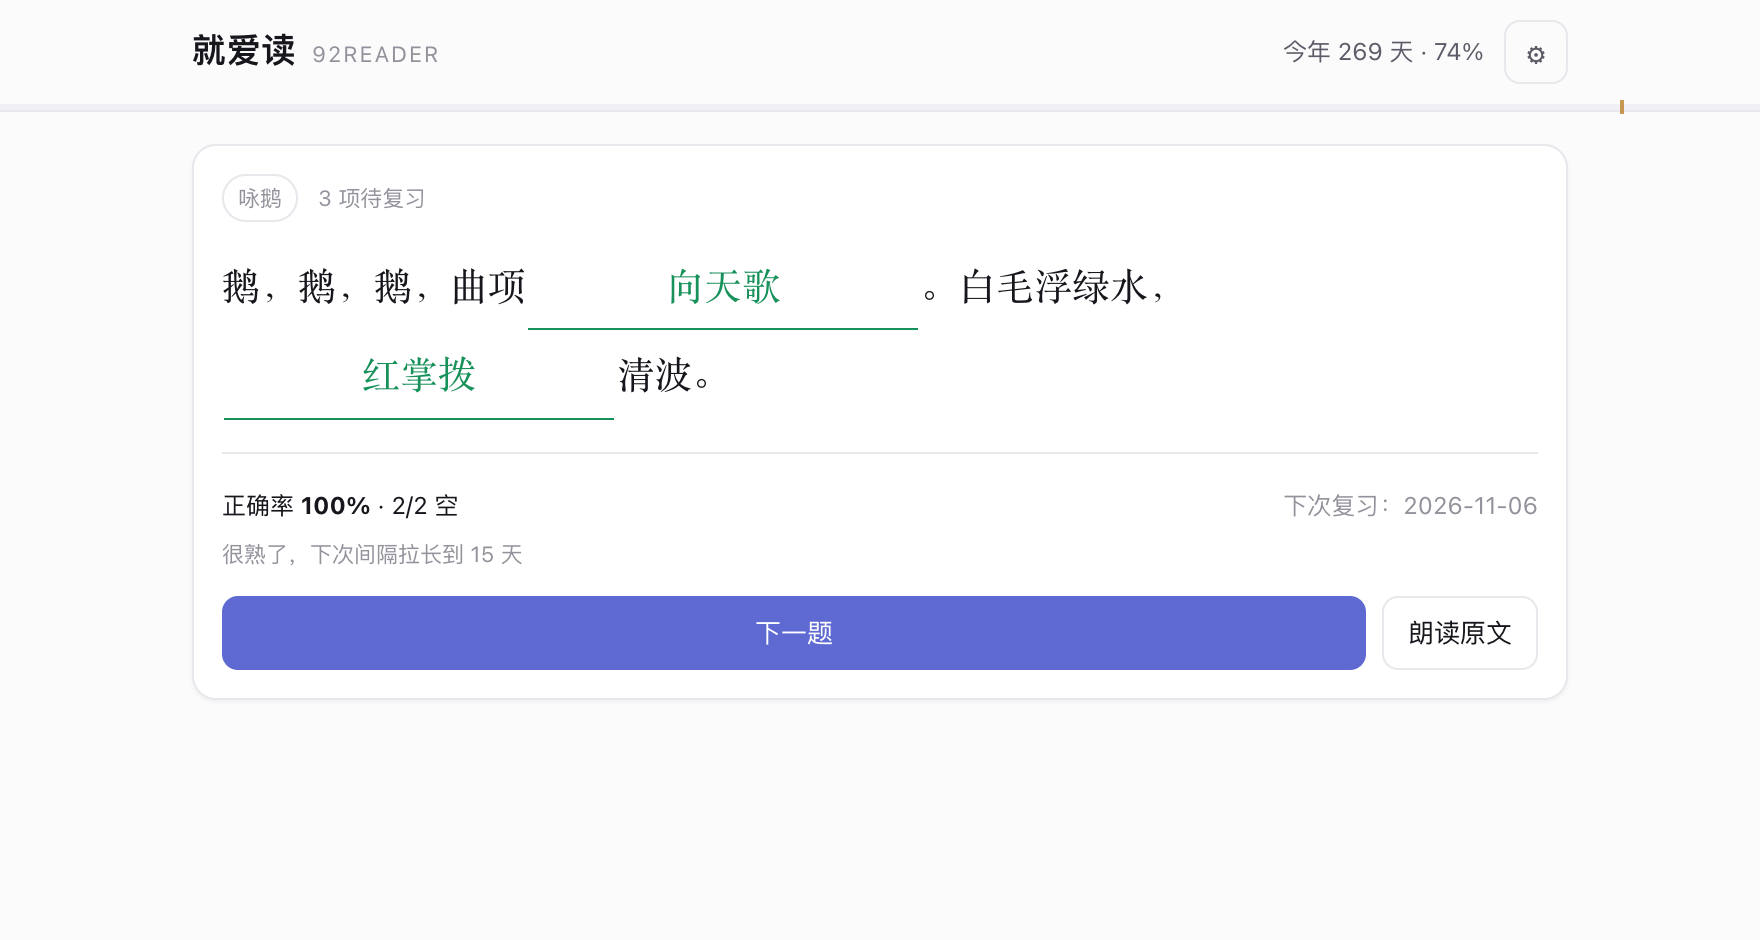
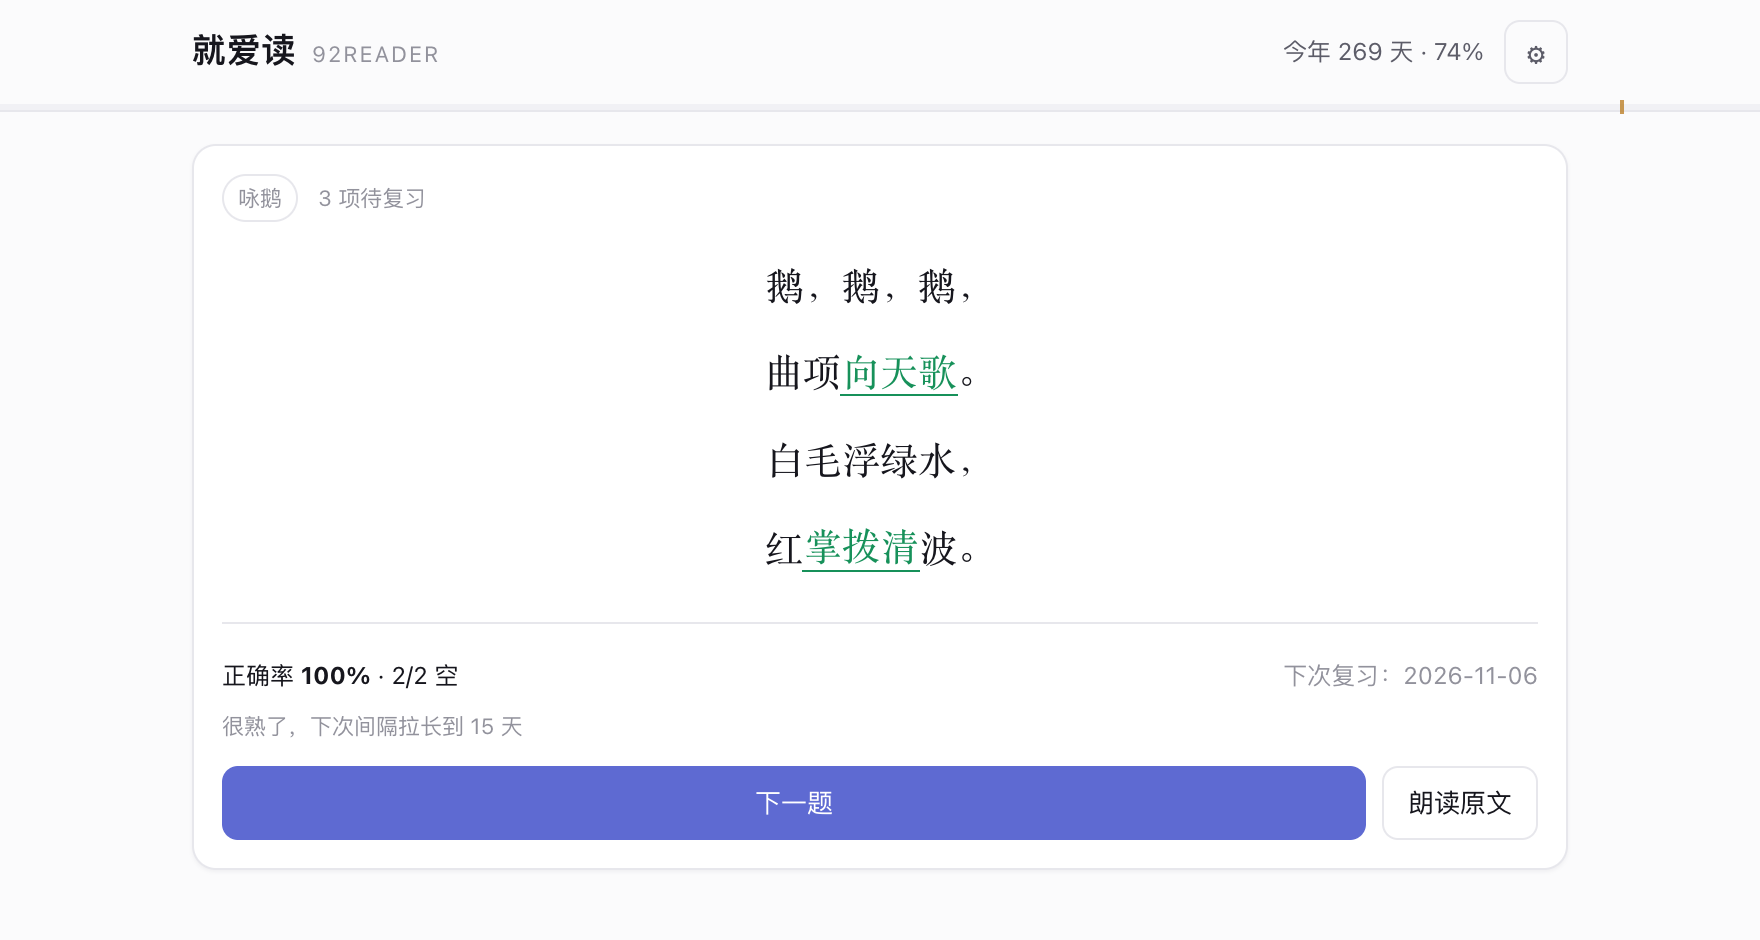
feat(editor): verse layout and in-place document editing
Layout:
- Break classical Chinese poetry one clause per line; genre wins first,
  otherwise sentence-final punctuation length decides, English only by genre
- Center verse blocks, keep prose left-aligned
- Merge one-or-two-character fragments back into the previous line
- Cloze gaps size to the answer and stay inside a line; verse mode caps
  density at 35% and blanks at 3 characters

Editing:
- Document modal now edits title, genre, and each segment in place
- Add or delete a segment; deleting keeps card indices aligned
- Re-segment per document, preserving review progress for unchanged text
- Fixed re-segment swallowing manually added segments: segment inside each
  existing boundary instead of feeding the whole document at once

diff --git a/app.html b/app.html
@@ -105,11 +105,13 @@ html[data-theme="dark"] .tag.due{background:#2a2113}
 /* 阅读 */
 .read{font-size:19px;line-height:2.05;letter-spacing:.03em;white-space:pre-wrap;word-break:break-word}
 .read.zh{font-family:"Songti SC","STSong","SimSun",serif;font-size:21px}
+/* 诗行居中，散文左对齐——诗本来就该居中对齐排 */
+.verse{text-align:center}
 
 /* cloze */
 .cloze{font-size:17px;line-height:2.3;white-space:pre-wrap;word-break:break-word}
 .cloze.zh{font-family:"Songti SC","STSong","SimSun",serif;font-size:19px}
-.gap{display:inline-block;min-width:52px;border:none;border-bottom:1.5px solid var(--accent);background:transparent;outline:none;text-align:center;font:inherit;color:var(--accent-ink);padding:0 2px;margin:0 1px}
+.gap{display:inline-block;min-width:1.5em;height:1.28em;line-height:1.28em;border:none;border-bottom:1.5px solid var(--accent);background:transparent;outline:none;text-align:center;font:inherit;color:var(--accent-ink);padding:0;margin:0;vertical-align:text-bottom}
 .gap.ok{border-bottom-color:var(--ok);color:var(--ok)}
 .gap.no{border-bottom-color:var(--bad);color:var(--bad)}
 .gap:disabled{opacity:1}
@@ -156,7 +158,7 @@ html[data-theme="dark"] .tag.due{background:#2a2113}
 .num small{font-size:13px;font-weight:400;color:var(--ink3);margin-left:3px}
 .hr{height:1px;background:var(--line);margin:16px 0;border:none}
 .chips{display:flex;flex-wrap:wrap;gap:6px}
-.pv{border:1px dashed var(--line);border-radius:var(--r);padding:9px 11px;font-size:13px;line-height:1.8;background:var(--panel)}
+.pv{border:1px dashed var(--line);border-radius:var(--r);padding:9px 11px;font-size:13px;line-height:1.8;background:var(--panel);white-space:pre-wrap}
 .pv + .pv{margin-top:6px}
 </style>
 </head>
@@ -296,6 +298,38 @@ function detectLang(t){
   return cjk > latin*0.3 ? 'zh' : 'en';
 }
 const GRAN = { zh:{s:15,m:50,l:150}, en:{s:10,m:30,l:80} };
+
+/* ---------- 古诗文排版 ----------
+   诗按句读断行才像诗，散文整段横排才对。先看体裁，再看句子长短：
+   句句都短（古诗五七言、词、小古文）按句读断，出现长句就当散文不拆。 */
+function isVerse(text, lang, genre){
+  const g = String(genre||'');
+  if(/诗|词|曲|赋|文言|古文|经|骈/.test(g)) return true;
+  if(lang === 'en') return /poem|verse|poetry/i.test(g);   // 英文只认体裁，长文别乱拆
+  const t = String(text||'').trim();
+  if(!t) return false;
+  // 按句末标点断句看长短：散文一句三十字上下，古诗一联也就十几个字
+  const sent = t.split(/[。！？；]+/).map(s=>s.trim()).filter(Boolean);
+  if(sent.length < 2) return false;
+  const lens = sent.map(s=> s.replace(/[\s，。；！？、：,.!?;:]/g,'').length);
+  return Math.max.apply(null, lens) <= 20;
+}
+function verseText(text, lang, genre){
+  const t = String(text||'').trim();
+  if(!isVerse(t, lang, genre)) return t;
+  const re = lang==='en' ? /([,.;!?])\s*/g : /([，。；！？])\s*/g;
+  const raw = t.replace(re, '$1\n').split('\n').map(s=>s.trim()).filter(Boolean);
+  // 合并碎行：像「鹅，鹅，鹅」这种一两个字的短句要接回同一行，不然会被拆成三行
+  const out = [];
+  for(const ln of raw){
+    const bare = ln.replace(/[\s，。；！？、：,.!?;:]/g,'').length;
+    if(out.length && bare <= 2){
+      out[out.length-1] += (lang==='en' ? ' ' : '') + ln;
+    } else out.push(ln);
+  }
+  return out.join('\n');
+}
+const DISPLAY = (seg)=> verseText(seg.text, seg.doc.lang, seg.doc.genre);
 function lenOf(s, lang){
   return lang==='en' ? s.trim().split(/\s+/).filter(Boolean).length : s.replace(/\s/g,'').length;
 }
@@ -410,12 +444,19 @@ function todayQueue(){
 }
 
 /* ---------- 挖空 ---------- */
-function makeCloze(text, lang, density){
-  const rate = density==='low' ? 0.2 : density==='high' ? 0.6 : 0.4;
-  return lang==='en' ? clozeEN(text, rate) : clozeZH(text, rate);
+function makeCloze(text, lang, density, verse){
+  let rate = density==='low' ? 0.2 : density==='high' ? 0.6 : 0.4;
+  if(verse) rate = Math.min(rate, 0.35);   // 诗一行就五七个字，挖太多整行会碎掉
+  return lang==='en' ? clozeEN(text, rate) : clozeZH(text, rate, verse ? 3 : 6);
 }
-function clozeZH(text, rate){
-  const PUNCT = '，。！？；：、,.!?;:"“”‘’（）《》…—';
+/* 挖空宽度贴合答案字数：固定宽度在分行排版的诗里会把整行撑散 */
+function gapStyle(tk, zh){
+  const n = Array.from(tk.answer || '').length;
+  const w = zh ? n * 1.02 : n * 0.6;
+  return 'width:' + Math.max(zh ? 1.7 : 2.4, w).toFixed(2) + 'em';
+}
+function clozeZH(text, rate, maxSeg){
+  const PUNCT = '，。！？；：、,.!?;:"“”‘’（）《》…—\n';
   const chars = Array.from(text);
   const runs = [];
   let i = 0;
@@ -431,7 +472,7 @@ function clozeZH(text, rate){
   const picked = [];
   for(const [s,e] of shuffle(runs.slice())){
     if(budget <= 0) break;
-    const maxLen = Math.min(e-s, 6);
+    const maxLen = Math.min(e-s, maxSeg || 6);
     if(maxLen < 2) continue;
     const len = 2 + Math.floor(Math.random()*Math.max(0, maxLen-1));
     const start = s + Math.floor(Math.random()*(e-s-len+1));
@@ -692,12 +733,15 @@ function viewReview(){
     return emptyBox('&#9998;','还没有可练习的内容','先在「今日」学几段，第二天它们会进入复习队列');
   }
   if(!ui.cloze || ui.cloze.seg.id !== seg.id){
-    ui.cloze = { seg:seg, tokens:makeCloze(seg.text, seg.doc.lang, state.settings.density), done:false, result:null };
+    const verse = isVerse(seg.text, seg.doc.lang, seg.doc.genre);
+    ui.cloze = { seg:seg, verse:verse,
+      tokens:makeCloze(DISPLAY(seg), seg.doc.lang, state.settings.density, verse),
+      done:false, result:null };
   }
   const cz = ui.cloze;
   const zh = seg.doc.lang === 'zh';
   const body = cz.tokens.map((tk,i)=> tk.blank
-    ? '<input class="gap'+(cz.done?' '+(tk._ok?'ok':'no'):'')+'" data-i="'+i+'" '+
+    ? '<input class="gap'+(cz.done?' '+(tk._ok?'ok':'no'):'')+'" data-i="'+i+'" style="'+gapStyle(tk, zh)+'" '+
       (cz.done?'disabled value="'+esc(tk._val)+'"':'placeholder="'+esc(tk.hint)+'"')+'>'+
       (cz.done && !tk._ok ? '<span class="ans">'+esc(tk.answer)+'</span>' : '')
     : esc(tk.t)).join('');
@@ -705,7 +749,7 @@ function viewReview(){
   let h = '<div class="sec"><div class="card">'+
     '<div class="row" style="margin-bottom:10px"><span class="tag src">'+esc(seg.doc.title)+'</span>'+
     '<span class="tiny dim grow">'+(q.review.length?q.review.length+' 项待复习':'自由练习')+'</span></div>'+
-    '<div class="cloze'+(zh?' zh':'')+'" id="clozeBox">'+body+'</div>';
+    '<div class="cloze'+(zh?' zh':'')+(cz.verse?' verse':'')+'" id="clozeBox">'+body+'</div>';
 
   if(cz.done){
     const r = cz.result;
@@ -777,10 +821,11 @@ function viewRoam(){
   if(!seg) return emptyBox('&#10227;','还没有学过的内容','先在「今日」朗读几段，之后就能在这里自由重温');
   const c = cardOf(seg.id);
   const zh = seg.doc.lang === 'zh';
+  const vz = isVerse(seg.text, seg.doc.lang, seg.doc.genre);
   return '<div class="sec"><div class="card">'+
     '<div class="row" style="margin-bottom:12px"><span class="tag src">'+esc(seg.doc.title)+'</span>'+
     '<span class="tiny dim grow">上次复习 '+c.lastReview+' · 已复习 '+(c.seen||0)+' 次</span></div>'+
-    '<div class="read'+(zh?' zh':'')+'" id="roamText">'+esc(seg.text)+'</div>'+
+    '<div class="read'+(zh?' zh':'')+(vz?' verse':'')+'" id="roamText">'+esc(DISPLAY(seg))+'</div>'+
     '<div class="hr"></div>'+
     '<div class="row" style="gap:8px"><button class="btn grow" data-act="roamSpeak">朗读</button>'+
     '<button class="btn" data-act="roamNext">换一段</button></div>'+
@@ -847,10 +892,11 @@ function closeModal(){ $('#modal').classList.add('hidden'); }
 function openRead(id, hint){
   const seg = findSeg(id); if(!seg) return;
   const zh = seg.doc.lang === 'zh';
+  const vz = isVerse(seg.text, seg.doc.lang, seg.doc.genre);
   ui.read = { id:id, times:0 };
   showModal('朗读 · '+esc(seg.doc.title)+
     (hint ? ' <span class="tiny dim">'+hint+'</span>' : ''),
-    '<div class="read'+(zh?' zh':'')+'" style="margin-bottom:16px">'+esc(seg.text)+'</div>'+
+    '<div class="read'+(zh?' zh':'')+(vz?' verse':'')+'" style="margin-bottom:16px">'+esc(DISPLAY(seg))+'</div>'+
     '<div class="row" style="gap:8px"><button class="btn pri grow" data-act="readSpeak">朗读一遍</button>'+
     '<button class="btn" data-act="readStop">停止</button></div>'+
     '<div class="tiny dim" style="margin:10px 0 14px">建议出声读两遍，再标记完成。朗读不计分，只建立初次印象。</div>'+
@@ -892,18 +938,99 @@ function findSeg(id){
 function openDoc(id){
   const d = state.docs.find(x=>x.id===id); if(!d) return;
   const zh = d.lang === 'zh';
-  showModal(esc(d.title),
-    '<div class="row" style="margin-bottom:12px"><span class="tag src">'+esc(d.genre)+'</span>'+
-    '<span class="tiny dim">'+d.segments.length+' 个记忆单元</span>'+
-    '<span class="grow"></span><button class="btn sm" data-act="delDoc" data-id="'+d.id+'">删除</button></div>'+
+  showModal('编辑文档',
+    '<div class="grid2"><div><label class="lab">标题</label>'+
+    '<input class="fld" id="docTitle" data-doc="'+d.id+'" value="'+esc(d.title)+'"></div>'+
+    '<div><label class="lab">体裁</label>'+
+    '<input class="fld" id="docGenre" data-doc="'+d.id+'" value="'+esc(d.genre)+'"></div></div>'+
+    '<div class="row" style="margin:12px 0 6px"><span class="tiny dim grow">'+
+    d.segments.length+' 个记忆单元 · 改完自动保存</span>'+
+    '<button class="btn sm" data-act="resegDoc" data-id="'+d.id+'">重新分段</button>'+
+    '<button class="btn sm" data-act="delDoc" data-id="'+d.id+'" style="color:var(--bad)">删除</button></div>'+
     d.segments.map((s,i)=>{
       const c = state.cards[d.id+'::'+i] || newCard();
       const badge = c.status==='mastered' ? '<span class="tag done">已掌握</span>'
         : c.status==='learning' ? '<span class="tag due">学习中</span>' : '<span class="tag">未开始</span>';
       return '<div class="row" style="align-items:flex-start;padding:9px 0;border-bottom:1px solid var(--line-soft)">'+
-        '<div class="grow" style="font-size:13px;line-height:1.8'+(zh?';font-family:\'Songti SC\',serif':'')+'">'+esc(s)+'</div>'+
-        '<span style="margin-left:8px">'+badge+'</span></div>';
-    }).join(''));
+        '<div class="grow" style="font-size:13px;line-height:1.8;white-space:pre-wrap'+(zh?';font-family:\'Songti SC\',serif':'')+'">'+
+        esc(verseText(s, d.lang, d.genre))+'</div>'+
+        '<span style="margin-left:8px">'+badge+'</span>'+
+        '<button class="btn sm" data-act="editSeg" data-id="'+d.id+'::'+i+'">改</button>'+
+        '<button class="btn sm" data-act="delSeg" data-id="'+d.id+'::'+i+'" style="color:var(--bad)">删</button></div>';
+    }).join('')+
+    '<button class="btn block" data-act="addSeg" data-id="'+d.id+'" style="margin-top:12px">＋ 补一段</button>');
+}
+
+/* ---------- 文档编辑 ---------- */
+function openEditSeg(id){
+  const seg = findSeg(id); if(!seg) return;
+  showModal('编辑这一段',
+    '<textarea class="fld" id="segText" style="min-height:150px">'+esc(seg.text)+'</textarea>'+
+    '<div class="tiny dim" style="margin:8px 0 12px">改的是这一段的原文，记忆进度（掌握度、下次复习）保持不变。</div>'+
+    '<div class="row" style="gap:8px"><button class="btn grow" data-act="closeModal">取消</button>'+
+    '<button class="btn pri grow" data-act="saveSeg" data-id="'+id+'">保存</button></div>');
+}
+function saveSeg(id){
+  const seg = findSeg(id); if(!seg) return;
+  const t = ($('#segText').value || '').trim();
+  if(!t){ toast('内容不能为空'); return; }
+  seg.doc.segments[seg.idx] = t;
+  save(); closeModal(); render(); openDoc(seg.doc.id);
+  toast('已保存');
+}
+function delSeg(id){
+  const seg = findSeg(id); if(!seg) return;
+  if(!confirm('删除这一段？它的记忆记录也会一起删掉。')) return;
+  const d = seg.doc, n = d.segments.length, i = seg.idx;
+  d.segments.splice(i,1);
+  for(let k=i+1;k<n;k++) state.cards[d.id+'::'+(k-1)] = state.cards[d.id+'::'+k];
+  delete state.cards[d.id+'::'+(n-1)];
+  if(!d.segments.length){            // 最后一段删掉就整篇没了
+    state.docs = state.docs.filter(x=>x.id!==d.id);
+    save(); closeModal(); render(); toast('已删除');
+    return;
+  }
+  save(); render(); openDoc(d.id); toast('已删除这一段');
+}
+function addSeg(id){
+  const d = state.docs.find(x=>x.id===id); if(!d) return;
+  showModal('补一段',
+    '<textarea class="fld" id="segText" style="min-height:150px" placeholder="粘贴或输入内容"></textarea>'+
+    '<div class="row" style="gap:8px;margin-top:12px"><button class="btn grow" data-act="closeModal">取消</button>'+
+    '<button class="btn pri grow" data-act="saveNewSeg" data-id="'+id+'">加入</button></div>');
+}
+function saveNewSeg(id){
+  const d = state.docs.find(x=>x.id===id); if(!d) return;
+  const t = ($('#segText').value || '').trim();
+  if(!t){ toast('内容不能为空'); return; }
+  d.segments.push(t);
+  cardOf(d.id+'::'+(d.segments.length-1));
+  save(); closeModal(); render(); openDoc(d.id);
+  toast('已补上这一段');
+}
+/** 按当前粒度重切整篇：内容没变的段继承原有记忆进度 */
+function resegDoc(id){
+  const d = state.docs.find(x=>x.id===id); if(!d) return;
+  const old = d.segments.slice();
+  // 逐段重切：段边界不动，只在段内按当前粒度调整。
+  // 若整篇一起喂给 segmentDoc，短文本会被诗歌分支打包，手动补的段会被吞回一大段。
+  const segs = [];
+  for(const s of old){
+    const parts = segmentDoc(s, d.lang, state.settings.gran);
+    segs.push(...(parts.length ? parts : [s]));
+  }
+  if(!segs.length){ toast('切不出内容'); return; }
+  const used = {}, next = {};
+  old.forEach((_,i)=> used[i] = false);
+  segs.forEach((t,i)=>{
+    const j = old.findIndex((o,k)=> !used[k] && o === t);
+    if(j >= 0){ used[j] = true; next[d.id+'::'+i] = state.cards[d.id+'::'+j]; }
+  });
+  old.forEach((_,i)=> delete state.cards[d.id+'::'+i]);
+  Object.assign(state.cards, next);
+  d.segments = segs;
+  save(); render(); openDoc(d.id);
+  toast('已重切成 '+segs.length+' 段');
 }
 
 /* ---------- 导入 ---------- */
@@ -1096,7 +1223,7 @@ function renderPreview(){
     '<button data-g="m" class="'+(state.settings.gran==='m'?'on':'')+'">中</button>'+
     '<button data-g="l" class="'+(state.settings.gran==='l'?'on':'')+'">长</button></div>'+
     '<div class="small dim" style="margin:10px 0 6px">切成 '+segs.length+' 个记忆单元</div>'+
-    '<div>'+segs.slice(0,6).map(s=>'<div class="pv">'+esc(s)+'</div>').join('')+
+    '<div>'+segs.slice(0,6).map(s=>'<div class="pv">'+esc(verseText(s, p.lang, p.genre))+'</div>').join('')+
     (segs.length>6 ? '<div class="tiny dim" style="margin-top:6px">… 其余 '+(segs.length-6)+' 段</div>' : '')+'</div>'+
     '<button class="btn pri block" data-act="confirmImport" style="margin-top:14px">导入 '+segs.length+' 个单元</button>';
 }
@@ -1349,6 +1476,12 @@ document.addEventListener('click', e=>{
       break;
     }
     case 'docView': openDoc(id); break;
+    case 'editSeg': openEditSeg(id); break;
+    case 'saveSeg': saveSeg(id); break;
+    case 'delSeg': delSeg(id); break;
+    case 'addSeg': addSeg(id); break;
+    case 'saveNewSeg': saveNewSeg(id); break;
+    case 'resegDoc': resegDoc(id); break;
     case 'delDoc': {
       const d = state.docs.find(x=>x.id===id);
       if(!d) break;
@@ -1410,6 +1543,18 @@ document.addEventListener('click', e=>{
 });
 
 $('#modal').addEventListener('click', e=>{ if(e.target.id === 'modal') closeModal(); });
+
+/* 文档详情里改标题 / 体裁：失焦或回车即存 */
+$('#modal').addEventListener('change', e=>{
+  const t = e.target;
+  if(t.id !== 'docTitle' && t.id !== 'docGenre') return;
+  const d = state.docs.find(x=> x.id === t.dataset.doc);
+  if(!d) return;
+  const v = t.value.trim();
+  if(t.id === 'docTitle') d.title = v || d.title;
+  else d.genre = v || '未分类';
+  save(); render(); toast('已保存');
+});
 
 function fetchWithTimeout(url, ms){
   const ctrl = new AbortController();

diff --git a/README.md b/README.md
@@ -41,6 +41,9 @@
 
 关键算法（分段 / SM-2 调度 / 挖空补全 / 遗忘曲线加权漫游 / 完成率）见 [REQUIREMENTS.md](REQUIREMENTS.md)。
 
+**排版**：古诗文按句读断行显示（体裁优先，其次看句长），散文整段横排——判据是句末标点切出的句子是否都短。
+一两个字的碎行（如「鹅，鹅，鹅」）会并回同一行；挖空框宽度随答案字数自适应，诗歌模式下挖空长度也收敛到 3 字内。
+
 ## 快速开始
 
 ```bash
